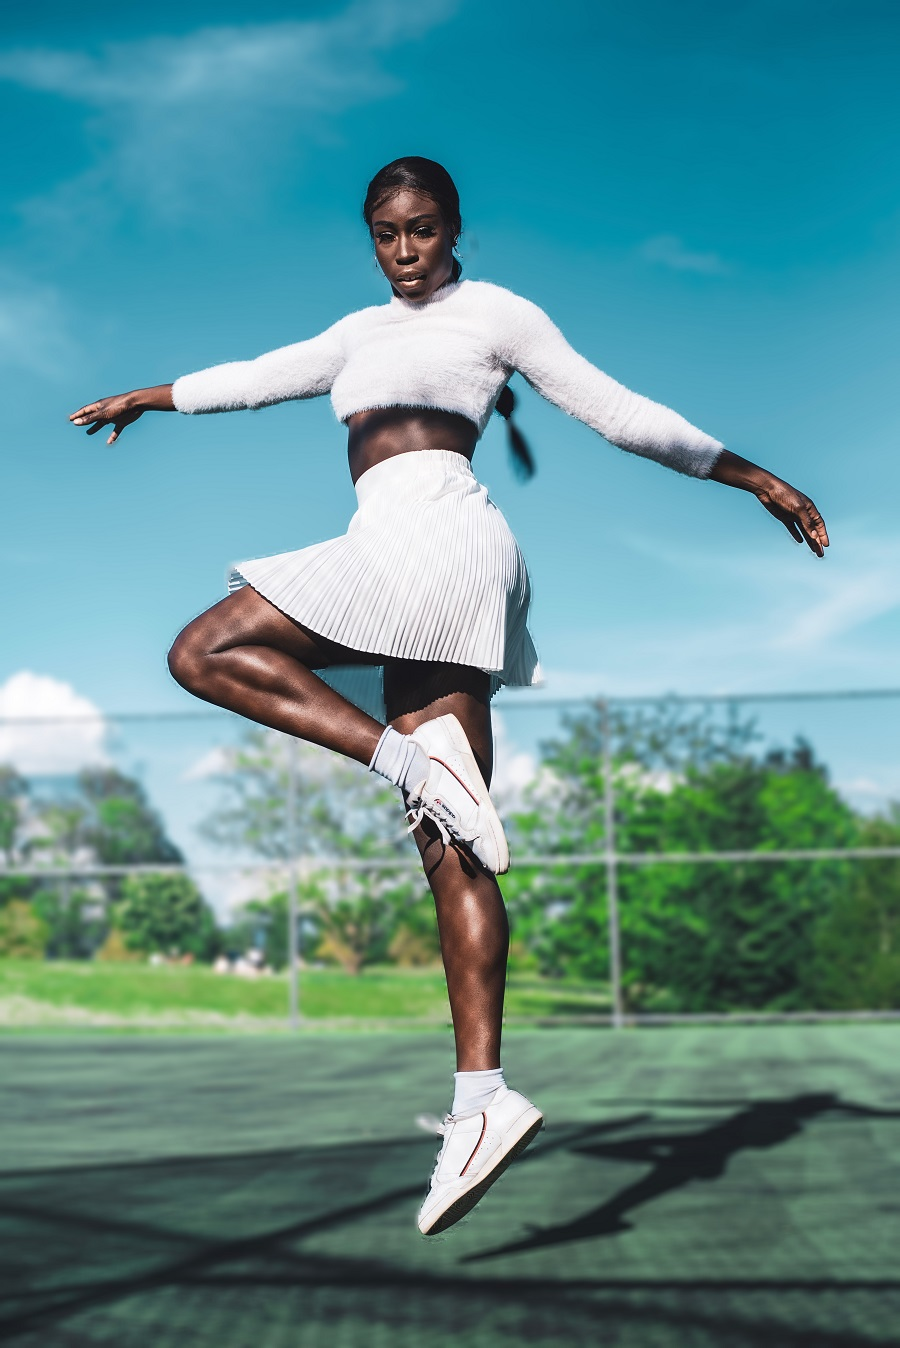
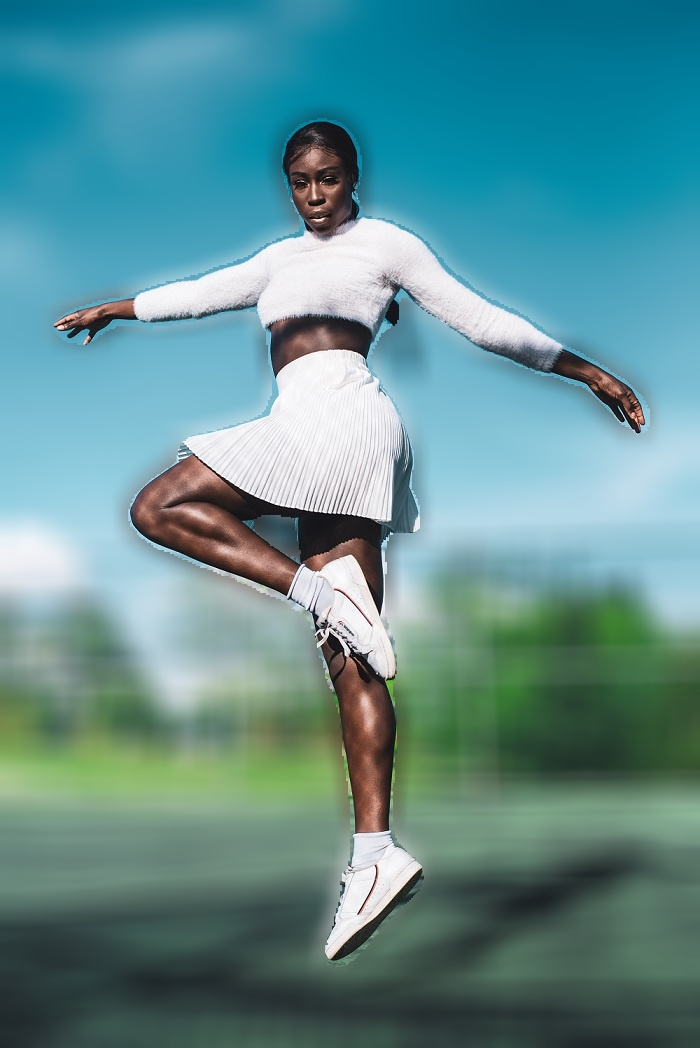
updated

diff --git a/Tutorials/change_image_bg.md b/Tutorials/change_image_bg.md
@@ -62,7 +62,7 @@ It takes the following parameter:
 
 **Output Image**
 
-![alt3](Images/p1_img.jpg)
+![alt3](Images/img.jpg)
 
 Wow! We have successfully changed the background of our image.
 
@@ -89,55 +89,9 @@ The function *color_bg* takes the parameter *colors* and we provided the RGB val
 
 **Colored Image**
 
-![alt4](Images/p1_white.jpg)
+![alt4](Images/colored.jpg)
 
 *Note*: You can assign any color to the background of your image, just provide the RGB value of the color.
-
-## Blur the background of an image
-
-![alt_sam2](Images/p2.jpg)
-
-You can also apply the effect of bluring the background of your image. You can also varry the degree of the burriness of the background.
-
-``` python
-change_bg.blur_bg("sample.jpg", low = True, output_image_name="blur_img.jpg")
-```
-We called the function *blur_bg* to blur the background of the image and we set the degree of blurriness to low. 
-
-**blur_low**
-
-![alt5](Images/low.jpg)
-
-
-``` python
-change_bg.blur_bg("sample.jpg", moderate = True, output_image_name="blur_img.jpg")
-```
-We want to moderately blur the background of the image, we set *moderate* to *true*.
-
-**blur_moderate**
-
-![alt6](Images/moderate.jpg)
-
-
-``` python
-change_bg.blur_bg("sample.jpg", extreme = True, output_image_name="blur_img.jpg")
-```
-We deeply blurred the image, we set *extreme* to *true*.
-
-**blur_extreme**
-
-![alt7](Images/extreme.jpg)
-
-
-*Full code*
-```python
-import pixellib
-from pixellib.tune_bg import alter_bg
-
-change_bg = alter_bg()
-change_bg.load_pascalvoc_model("deeplabv3_xception_tf_dim_ordering_tf_kernels.h5")
-change_bg.blur_bg("sample.jpg", moderate = True, output_image_name="blur_img.jpg")
-```
 
 
 ## Grayscale the background of an image
@@ -160,6 +114,55 @@ It is still the same code except we called the function *gray_bg* to grayscale t
 **Output Image**
 
 ![alt7](Images/gray.jpg)
+
+## Blur the background of an image
+
+**sample2.jpg**
+![alt_sam2](Images/p2.jpg)
+
+You can also apply the effect of bluring the background of your image. You can also varry the degree of the burriness of the background.
+
+``` python
+change_bg.blur_bg("sample2.jpg", low = True, output_image_name="blur_img.jpg")
+```
+We called the function *blur_bg* to blur the background of the image and we set the degree of blurriness to low. 
+
+**blur_low**
+
+![alt5](Images/low.jpg)
+
+
+``` python
+change_bg.blur_bg("sample2.jpg", moderate = True, output_image_name="blur_img.jpg")
+```
+We want to moderately blur the background of the image, we set *moderate* to *true*.
+
+**blur_moderate**
+
+![alt6](Images/moderate.jpg)
+
+
+``` python
+change_bg.blur_bg("sample2.jpg", extreme = True, output_image_name="blur_img.jpg")
+```
+We deeply blurred the image, we set *extreme* to *true*.
+
+**blur_extreme**
+
+![alt7](Images/extreme.jpg)
+
+
+*Full code*
+```python
+import pixellib
+from pixellib.tune_bg import alter_bg
+
+change_bg = alter_bg()
+change_bg.load_pascalvoc_model("deeplabv3_xception_tf_dim_ordering_tf_kernels.h5")
+change_bg.blur_bg("sample2.jpg", moderate = True, output_image_name="blur_img.jpg")
+```
+
+
 
 ## Obtain output arrays
 
